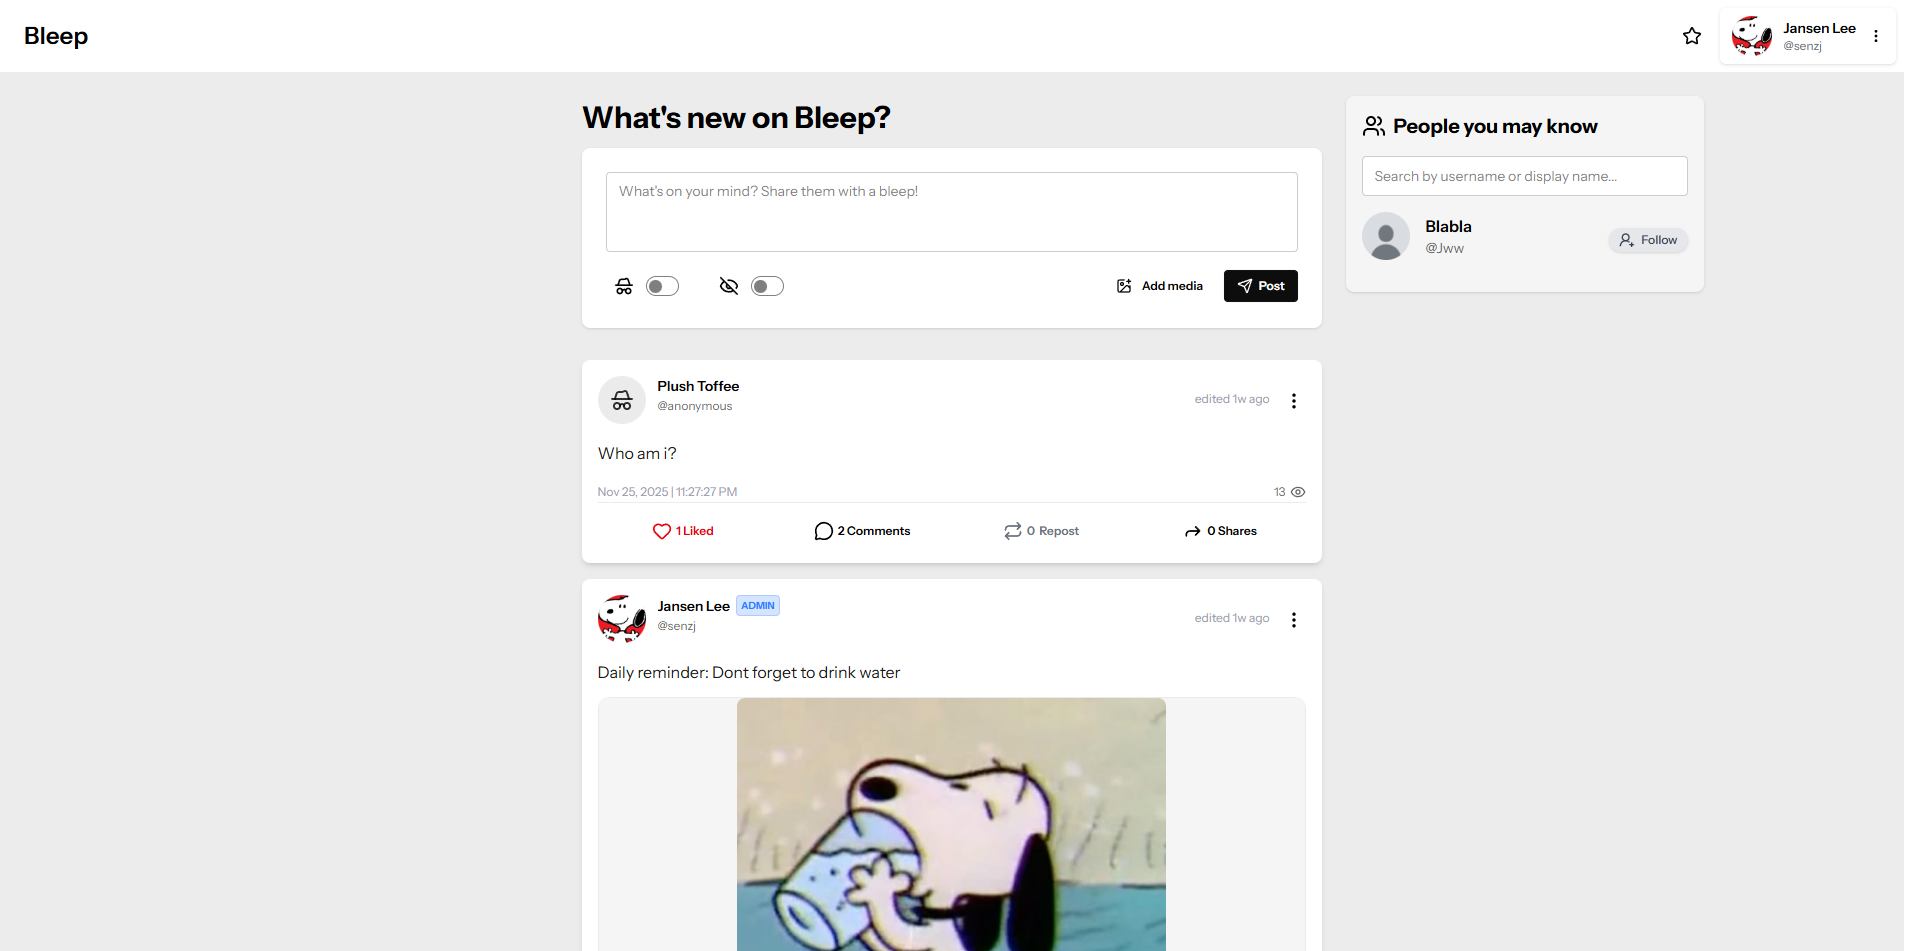
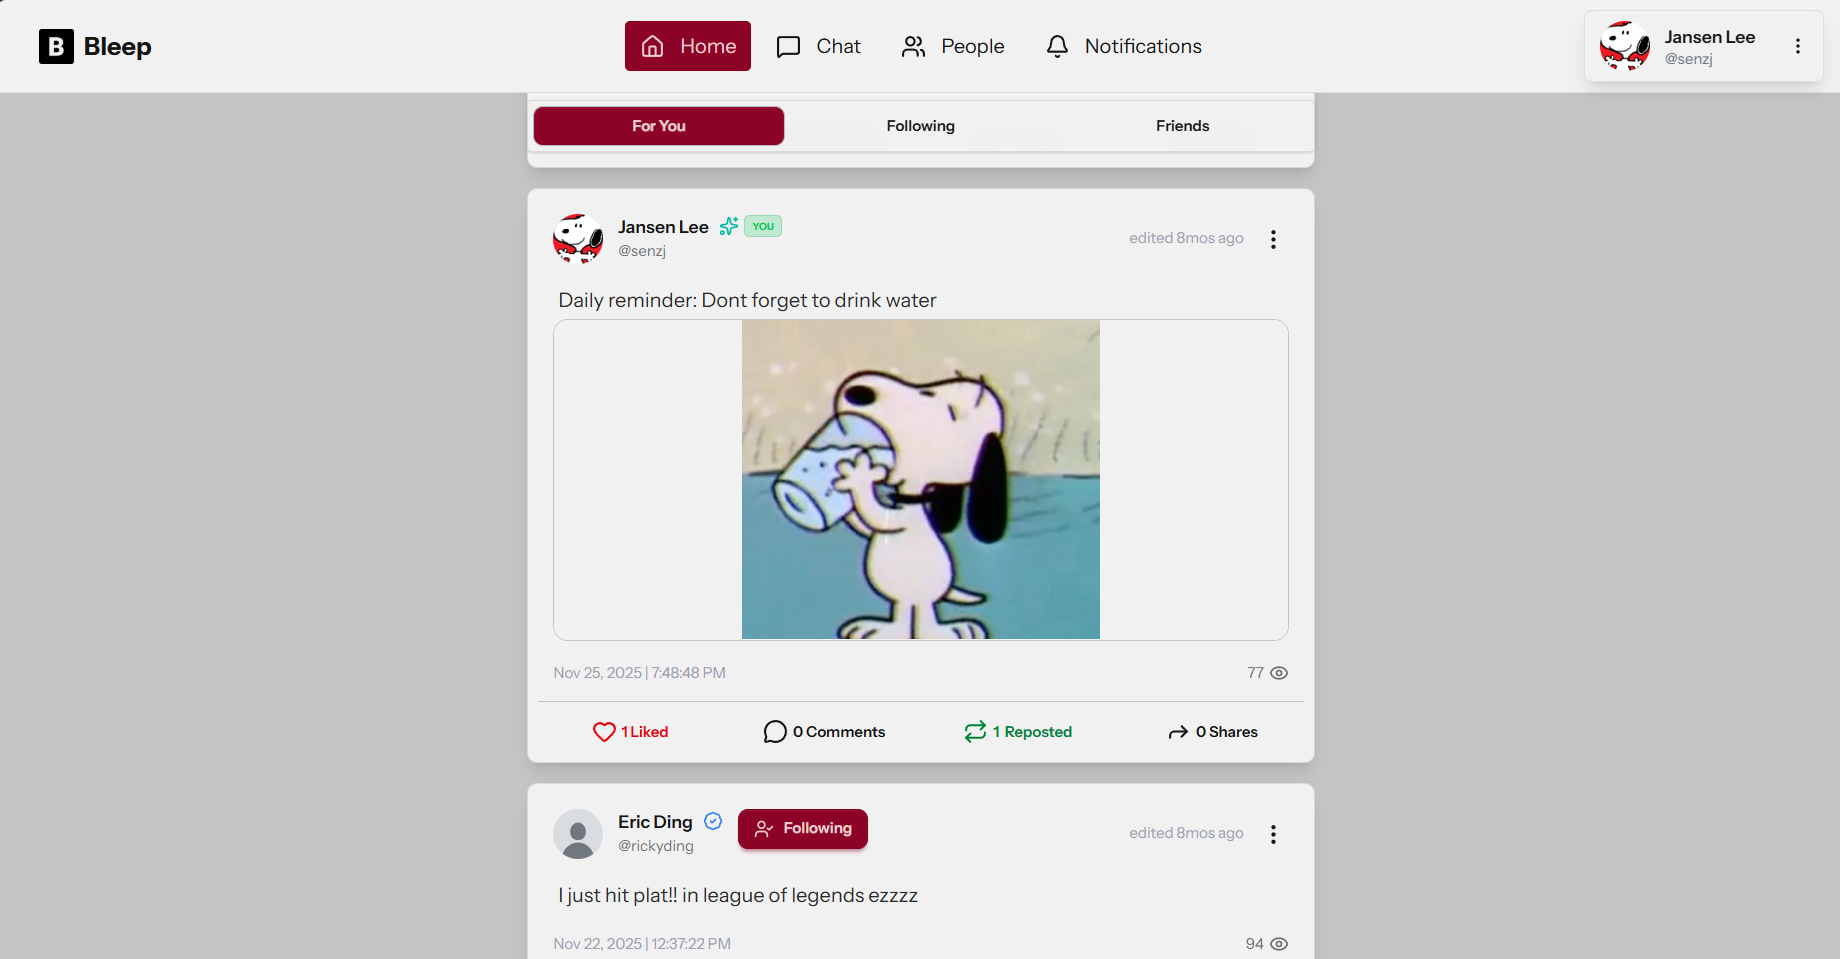
chore: update bleep image assets and tech stacks

diff --git a/index.html b/index.html
@@ -263,7 +263,7 @@
                 <article class="project-card project-preview-card" data-reveal data-tilt
                     data-title="Grocery Store POS System"
                     data-description="A point-of-sale and delivery management system for a grocery business: delivery tracking, inventory management, tools for delivery staff, and a dashboard for sales and order insight. Built solo end-to-end, including a custom weighted-average-cost restock flow and a hand-built canvas image cropper after CropperJS broke."
-                    data-tech="Laravel|Livewire|MySQL|TailwindCSS|JavaScript"
+                    data-tech="Laravel|Blade|Livewire|MySQL|TailwindCSS|JavaScript|HTML|CSS|PHP"
                     data-repo="https://github.com/senzj/MVS"
                     data-demo=""
                     data-gallery="assets/img/MVS/1.png,assets/img/MVS/2.png,assets/img/MVS/3.png,assets/img/MVS/4.png,assets/img/MVS/5.png,assets/img/MVS/6.png,assets/img/MVS/7.png,assets/img/MVS/8.png,assets/img/MVS/9.png">
@@ -279,7 +279,7 @@
                 <article class="project-card project-preview-card" data-reveal data-tilt
                     data-title="DOH EAMC Eye Center PACS"
                     data-description="Internship project for the Department of Health — East Avenue Medical Center Eye Center. A PACS platform for storing, managing, viewing, and exporting medical images and video for clinical use."
-                    data-tech="Laravel|Livewire|MySQL|TailwindCSS|JavaScript"
+                    data-tech="Laravel|Blade|Livewire|Vue JS|MySQL|TailwindCSS|JavaScript|HTML|CSS|PHP"
                     data-repo=""
                     data-demo=""
                     data-gallery="assets/img/PACS/1.png,assets/img/PACS/2.png,assets/img/PACS/3.png,assets/img/PACS/4.png,assets/img/PACS/5.png,assets/img/PACS/6.png">
@@ -295,7 +295,7 @@
                 <article class="project-card project-preview-card" data-reveal data-tilt
                     data-title="Laboratory Information Management System"
                     data-description="A web-based laboratory information management system built to streamline data handling and reporting in a laboratory environment — from sample intake to result reporting."
-                    data-tech="Laravel|Livewire|MySQL|TailwindCSS|PHP"
+                    data-tech="Laravel|Blade|MySQL|TailwindCSS|JavaScript|HTML|CSS|PHP"
                     data-repo=""
                     data-demo=""
                     data-gallery="assets/img/LIMS/1.png,assets/img/LIMS/2.png,assets/img/LIMS/3.png,assets/img/LIMS/4.png,assets/img/LIMS/5.png,assets/img/LIMS/6.png,assets/img/LIMS/7.png,assets/img/LIMS/8.png,assets/img/LIMS/9.png,assets/img/LIMS/10.png,assets/img/LIMS/11.png">
@@ -311,7 +311,7 @@
                 <article class="project-card project-preview-card" data-reveal data-tilt
                     data-title="FitGroove"
                     data-description="An offline-first Flutter fitness app. Local persistence with Drift/SQLite, Riverpod for state, a five-tab shell with StatefulShellRoute, and a workout recommendation engine that scores routines. Custom animated widgets throughout, including a curved bottom nav with a CustomPainter notch."
-                    data-tech="Flutter|Dart|Drift/SQLite|Riverpod|GoRouter"
+                    data-tech="Flutter|Dart|Drift/SQLite|Riverpod|GoRouter|Kotlin|Swift"
                     data-repo="https://github.com/senzj/project8"
                     data-demo=""
                     data-gallery="assets/img/fitgroove/1.jpg,assets/img/fitgroove/2.jpg,assets/img/fitgroove/3.jpg,assets/img/fitgroove/4.jpg,assets/img/fitgroove/5.jpg,assets/img/fitgroove/6.jpg,assets/img/fitgroove/7.jpg,assets/img/fitgroove/8.jpg,assets/img/fitgroove/9.jpg,assets/img/fitgroove/10.jpg,assets/img/fitgroove/11.jpg,assets/img/fitgroove/12.jpg,assets/img/fitgroove/13.jpg">
@@ -327,7 +327,7 @@
                 <article class="project-card project-preview-card" data-reveal data-tilt
                     data-title="Capstone Compass"
                     data-description="Final project for Project Management. A thesis progress tracker that lets students and advisers monitor progress together, with a live chat feature for direct communication and updates."
-                    data-tech="Laravel|MySQL|TailwindCSS|JavaScript"
+                    data-tech="Laravel|Blade|MySQL|TailwindCSS|JavaScript|HTML|CSS|PHP"
                     data-repo="https://github.com/senzj/UniCon"
                     data-demo=""
                     data-gallery="assets/img/capstone_compass/1.png">
@@ -343,7 +343,7 @@
                 <article class="project-card project-preview-card" data-reveal data-tilt
                     data-title="Trailventure"
                     data-description="An e-commerce project for camping equipment: product browsing, cart, checkout, and an admin panel for product management."
-                    data-tech="React|Firebase|TailwindCSS|JavaScript"
+                    data-tech="React|Firebase|SQLite|TailwindCSS|JavaScript|HTML|CSS"
                     data-repo="https://github.com/senzj/Trailventure"
                     data-demo=""
                     data-gallery="assets/img/trailventure/1.png,assets/img/trailventure/2.png,assets/img/trailventure/3.png,assets/img/trailventure/4.png,assets/img/trailventure/5.png,assets/img/trailventure/6.png,assets/img/trailventure/7.png,assets/img/trailventure/8.png,assets/img/trailventure/9.png">
@@ -359,10 +359,10 @@
                 <article class="project-card project-preview-card" data-reveal data-tilt
                     data-title="Bleep"
                     data-description="A personal Laravel social app in the vein of Chirper/Twitter: authentication, posting, following, liking, and a simple feed."
-                    data-tech="Laravel|MySQL|TailwindCSS|JavaScript"
+                    data-tech="Laravel|Blade|Vue JS|MySQL|TailwindCSS|JavaScript|HTML|CSS|PHP"
                     data-repo="https://github.com/senzj/bleep"
                     data-demo="https://bleep.zya.me/?i=1"
-                    data-gallery="assets/img/bleep/1.png,assets/img/bleep/2.png">
+                    data-gallery="assets/img/bleep/1.png,assets/img/bleep/2.png,assets/img/bleep/3.png,assets/img/bleep/4.png,assets/img/bleep/5.png">
                     <button type="button" class="project-open" aria-label="Open project details for Bleep">
                         <img src="assets/img/bleep/1.png" alt="Bleep screenshot" class="project-image" loading="lazy">
                         <span class="project-card-body">
